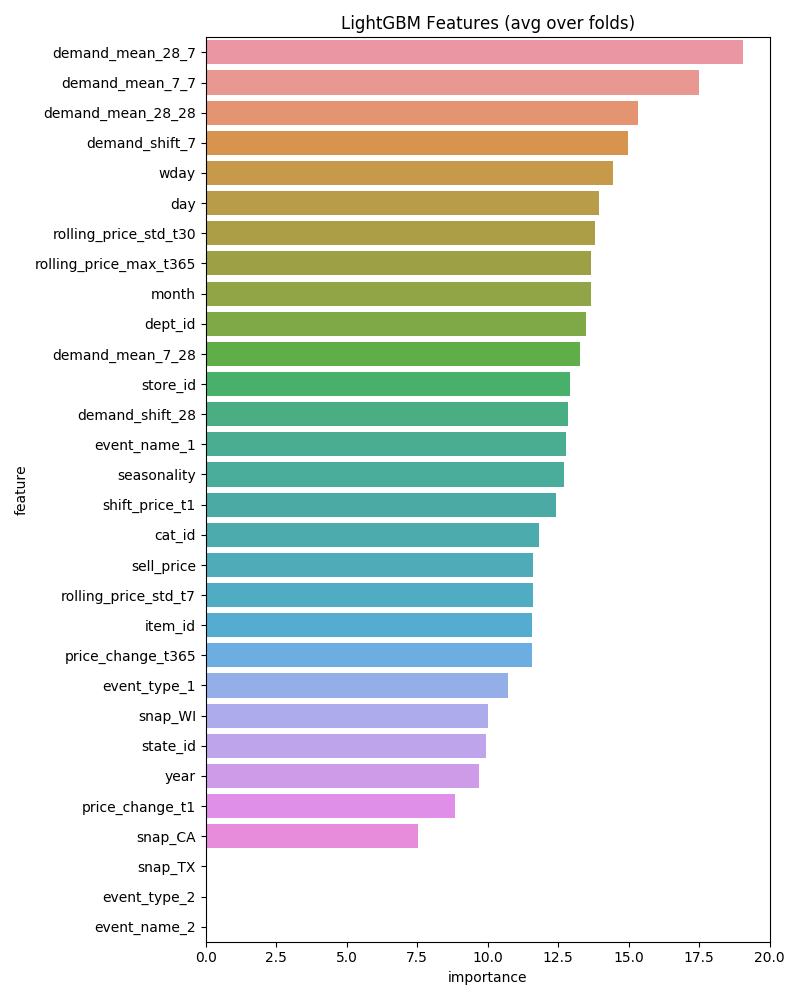
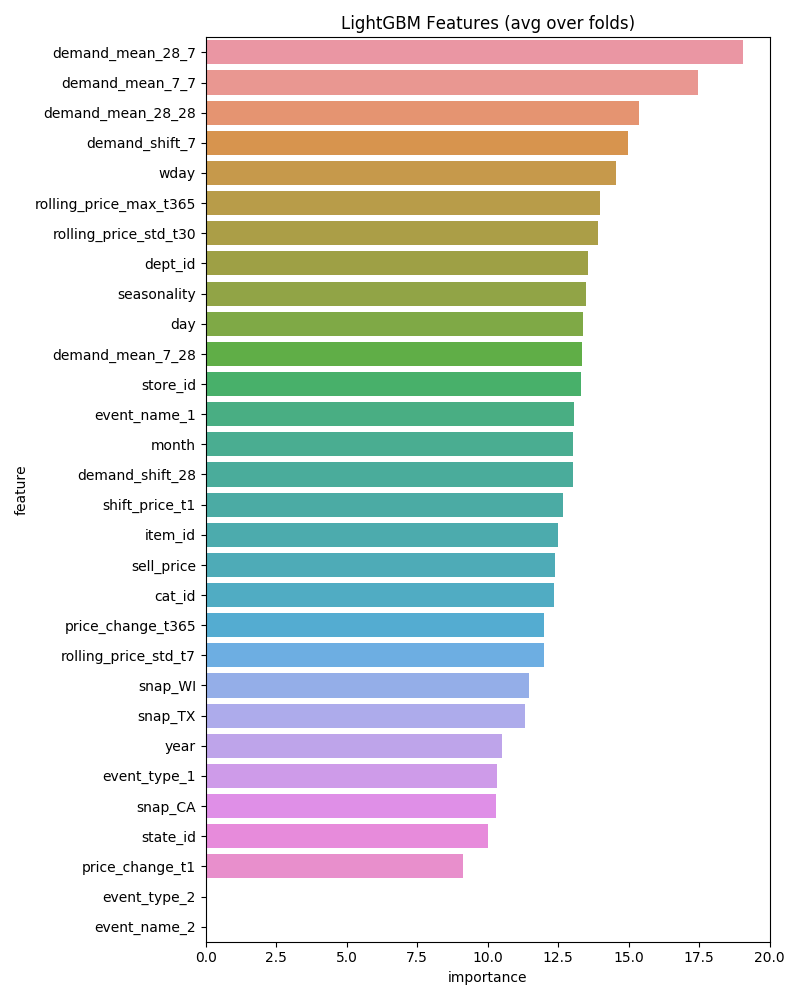
LB#24 cv:3.736361

diff --git a/src/202_train_lgbm_holdout.py b/src/202_train_lgbm_holdout.py
@@ -56,7 +56,7 @@ def train_lightgbm(train_df,test_df,debug=False):
     sub_preds = np.zeros(test_df.shape[0])
     feature_importance_df = pd.DataFrame()
     feats = [f for f in train_df.columns if f not in FEATS_EXCLUDED]
-    cat_cols = [c for c in CAT_COLS if c in feats]
+#    cat_cols = [c for c in CAT_COLS if c in feats]
 
     # split train & valid
     train_idx = train_df['date']<='2016-03-27'
@@ -68,11 +68,11 @@ def train_lightgbm(train_df,test_df,debug=False):
     # set data structure
     lgb_train = lgb.Dataset(train_x,
                             label=train_y,
-                            categorical_feature=cat_cols,
+#                            categorical_feature=cat_cols,
                             free_raw_data=False)
     lgb_test = lgb.Dataset(valid_x,
                            label=valid_y,
-                           categorical_feature=cat_cols,
+#                           categorical_feature=cat_cols,
                            free_raw_data=False)
 
     params ={
@@ -126,7 +126,7 @@ def train_lightgbm(train_df,test_df,debug=False):
     gc.collect()
 
     # Full RMSE score and LINE Notify
-    full_rmse = rmse(train_df['demand'], oof_preds)
+    full_rmse = rmse(train_df[valid_idx]['demand'], oof_preds[valid_idx])
     line_notify('Full RMSE score %.6f' % full_rmse)
 
     # display importances
